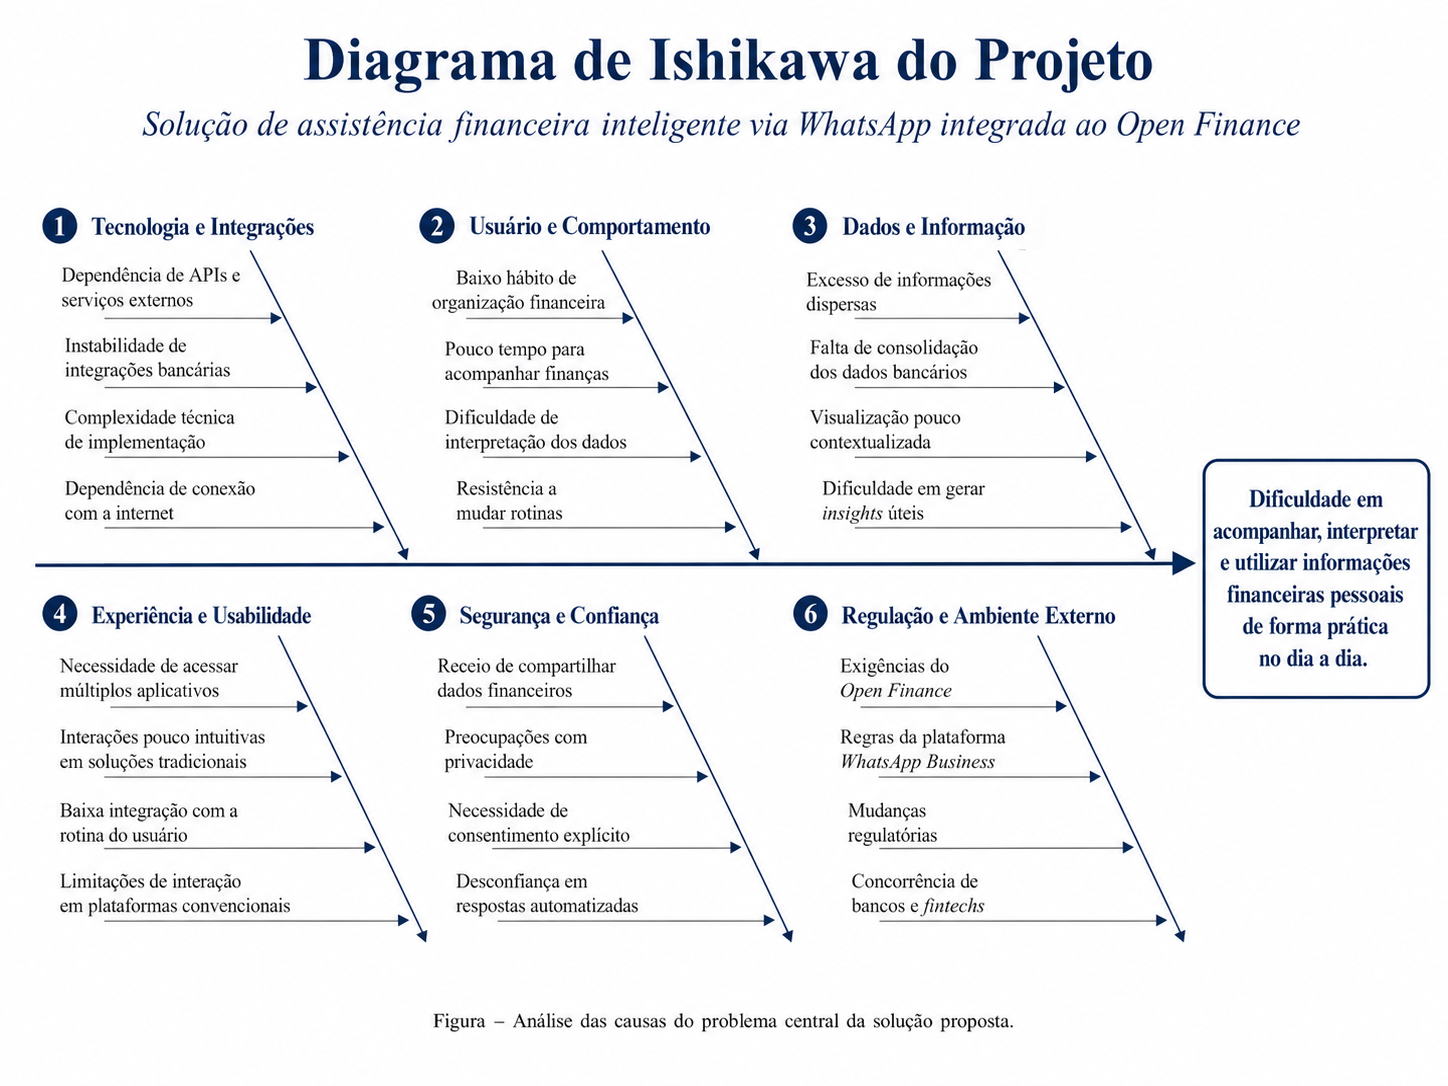
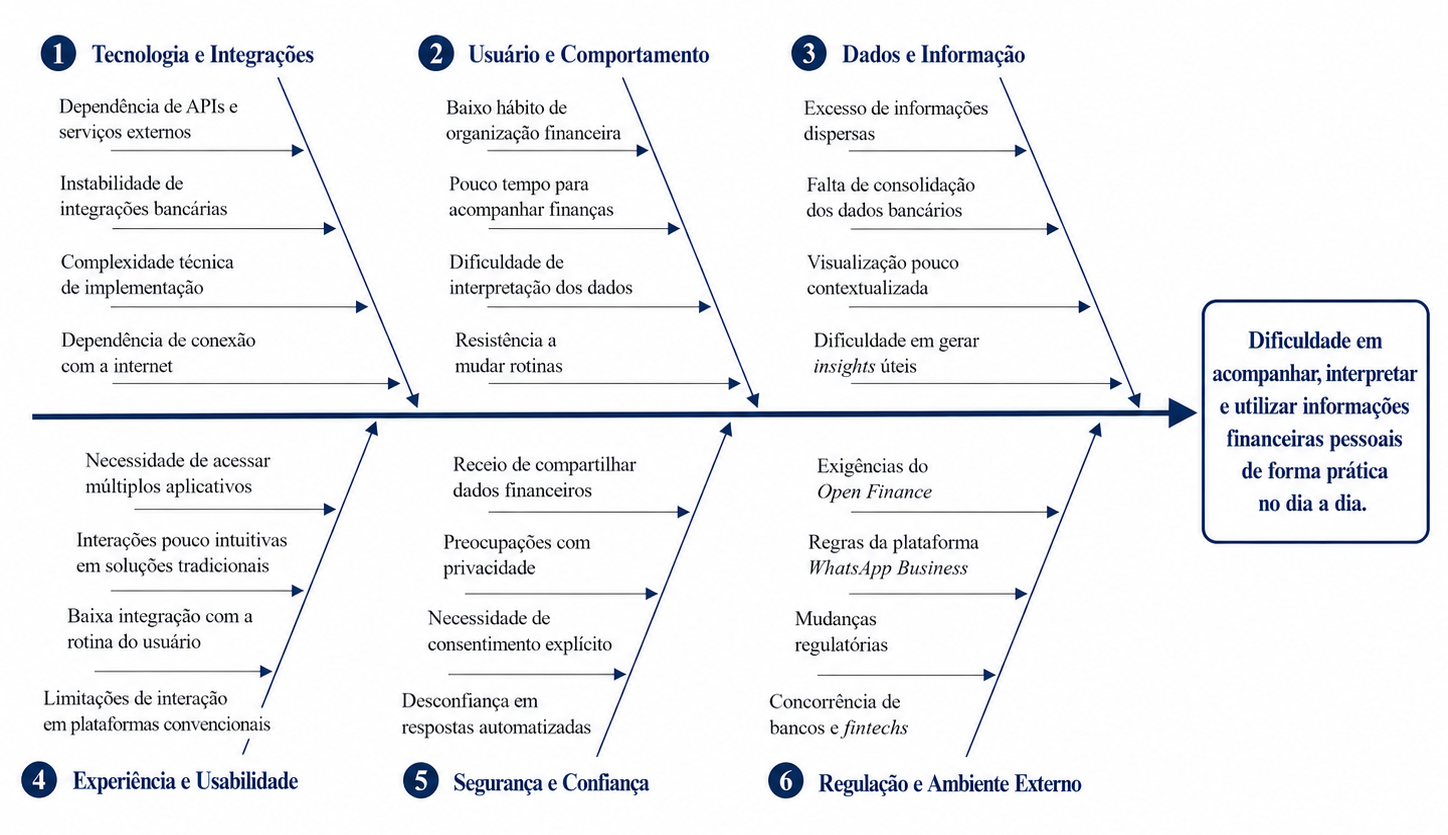
feat: systemic frontier

diff --git a/chapters/06_modelagem_sistema.tex b/chapters/06_modelagem_sistema.tex
@@ -1,88 +1,100 @@
 % =============================================
 % CAPÍTULO 6 - MODELAGEM DO SISTEMA
 % =============================================
-\chapter{MODELAGEM DO SISTEMA}
+    \chapter{MODELAGEM DO SISTEMA}
 
-Durante o desenvolvimento de \textit{software}, a modelagem do sistema é uma etapa importante, uma vez que permite estruturar os requisitos, identificar limitações e descrever as funcionalidades previstas para a solução. Assim, nesta seção, serão abordadas as restrições do sistema, os requisitos funcionais e não funcionais, bem como os diagramas de casos de uso e suas descrições correspondentes.
+    A modelagem do sistema representa uma etapa fundamental no processo de desenvolvimento de \textit{software}, pois permite estruturar os requisitos, identificar restrições e descrever com clareza as funcionalidades esperadas da solução. No contexto deste projeto — uma plataforma conversacional de inteligência financeira operada integralmente pelo WhatsApp, com integração ao \textit{Open Finance} e uso de inteligência artificial — essa etapa é especialmente relevante, dado que a solução envolve dados financeiros sensíveis, dependências de serviços externos e conformidade com a Lei Geral de Proteção de Dados (LGPD). Assim, neste capítulo são apresentadas as restrições do sistema, os requisitos funcionais e não funcionais, bem como os diagramas de casos de uso e suas respectivas descrições.
 
-\section{Lista de restrições}
+    \section{Fronteira sistêmica}
 
-No decorrer do processo de desenvolvimento, algumas limitações foram levantadas e organizadas no Quadro 5.
+    Na Figura \ref{fig:fronteira}, é ilustrada a fronteira sistêmica da solução, demonstrando visualmente a separação do ambiente interno da plataforma e as interações realizadas no seu entorno. O diagrama facilita o entendimento dos sistemas externos que se comunicam com a solução e dos componentes internos responsáveis por cada responsabilidade. Foi identificado que a aplicação interage com três grupos de serviços externos: a \textbf{WhatsApp Cloud API} (Meta), que atua como canal de entrada e saída das mensagens do usuário; a \textbf{Pluggy}, responsável pela integração com o ecossistema de \textit{Open Finance} regulado pelo Banco Central, viabilizando a sincronização de transações financeiras; e a \textbf{OpenAI}, utilizada para processamento de linguagem natural e geração de \textit{embeddings}. Internamente, a plataforma é organizada em camadas de entrada, domínio e dados, compostas por serviços como \textit{API Gateway}, \textit{Chat Service}, \textit{Finance Service}, \textit{Notification Service}, \textit{Outbound Worker} e \textit{Audit Service}, com persistência distribuída entre PostgreSQL, MongoDB, Redis e Kafka.
 
-{\small
-\begin{longtable}{|p{2.0cm}|p{3.6cm}|p{8.9cm}|}
-\caption{Lista de Restrições} \label{quad:restricoes} \\
-\hline
-\textbf{Fonte} & \textbf{Restrição} & \textbf{Lógica} \\ \hline
-\endfirsthead
-\hline
-\textbf{Fonte} & \textbf{Restrição} & \textbf{Lógica} \\ \hline
-\endhead
-\hline
-\multicolumn{3}{r}{\fontsize{10pt}{10pt}\selectfont\textit{Continua na próxima página}} \\
-\endfoot
-\hline
-\multicolumn{3}{c}{\fontsize{10pt}{10pt}\selectfont \textbf{Fonte:} Elaborado pelos autores (2026).} \\
-\endlastfoot
-Sistêmica & Integração com APIs do \textit{Open Finance} & O funcionamento da solução depende da integração com serviços e APIs do ecossistema de \textit{Open Finance}, responsáveis pelo acesso padronizado aos dados financeiros compartilhados pelo usuário. \\ \hline
-Sistêmica & Dependência da API do \textit{WhatsApp Business} & Como a solução será operada integralmente pelo WhatsApp, sua execução depende da disponibilidade e das regras da plataforma \textit{WhatsApp Business}. \\ \hline
-Sistêmica & Segurança de informações financeiras & Por lidar com dados bancários e financeiros sensíveis, o sistema deve adotar mecanismos de proteção, autenticação e controle de acesso para evitar usos indevidos e acessos não autorizados. \\ \hline
-Sistêmica & Consentimento do usuário & O acesso aos dados financeiros depende da autorização explícita do usuário, o que limita o funcionamento da solução aos casos em que houver consentimento válido. \\ \hline
-Sistêmica & Precisão das respostas automatizadas & Como o sistema utiliza inteligência artificial e interação conversacional, é necessário limitar respostas imprecisas ou genéricas, principalmente em contextos financeiros. \\ \hline
-Sistêmica & Limitações do canal conversacional & Por funcionar dentro do WhatsApp, a solução fica restrita ao formato e aos recursos permitidos pelo canal, o que reduz possibilidades visuais em comparação com plataformas \textit{web}. \\ \hline
-Sistêmica & Utilização de serviços terceirizados & A implementação do sistema pode depender de ferramentas externas para conexão ao \textit{Open Finance}, hospedagem, banco de dados, autenticação, integração e processamento de IA. \\ \hline
-Sistêmica & Conformidade com a LGPD & O sistema deve respeitar normas de privacidade e proteção de dados pessoais, exigindo cuidados específicos no tratamento, armazenamento e compartilhamento das informações. \\ \hline
-\textit{Hardware} & Hospedagem em nuvem & A solução depende de infraestrutura em nuvem para processamento, armazenamento e disponibilidade contínua, evitando a necessidade de infraestrutura física própria. \\ \hline
-\textit{Hardware} & Disponibilidade de conexão com a \textit{internet} & Tanto o usuário quanto os serviços integrados precisam de acesso à \textit{internet} para que a solução funcione corretamente. \\ \hline
-\textit{Hardware} & Compatibilidade com dispositivos móveis & Como o sistema será utilizado pelo WhatsApp, é necessário que o usuário possua um \textit{smartphone} compatível com o aplicativo e com acesso regular ao serviço. \\ \hline
-\end{longtable}
-}
+    \begin{figure}[H]
+        \centering
+        \caption{Fronteira sistêmica da plataforma}
+        \includegraphics[width=\textwidth]{images/fronteira.png}
+        \label{fig:fronteira}
+        \fontetabela{\textbf{Fonte:} Elaborado pelos autores (2026).}
+    \end{figure}
 
-\section{Requisitos e diagramas}
+    \section{Lista de restrições}
 
-Os requisitos e as formas de representação do sistema possuem papel relevante no desenvolvimento de \textit{software}, pois contribuem para a definição clara das necessidades que deverão ser atendidas pela solução proposta. De acordo com Washizaki, em ``\textit{Guide to the Software Engineering Body of Knowledge}'' (SWEBOK), a engenharia de requisitos integra uma das áreas de conhecimento fundamentais da engenharia de \textit{software}, sendo responsável por apoiar a identificação, documentação e comunicação das necessidades do sistema. Nesse contexto, o uso de modelos e diagramas auxilia na visualização dessas informações, facilita o entendimento entre os envolvidos no projeto e contribui para uma especificação mais organizada e consistente do \textit{software} a ser desenvolvido.
+    No decorrer do processo de desenvolvimento, foram identificadas restrições que influenciam diretamente o funcionamento e o escopo da solução. Por se tratar de uma plataforma que depende da integração com o ecossistema de \textit{Open Finance}, da disponibilidade da \textit{WhatsApp Business Platform} e do cumprimento das exigências da LGPD, as restrições possuem caráter tanto sistêmico quanto de infraestrutura. Essas limitações foram organizadas no Quadro \ref{quad:restricoes}.
 
-\subsection{Requisitos funcionais}
+    {\small
+    \begin{longtable}{|p{2.0cm}|p{3.6cm}|p{8.9cm}|}
+    \caption{Lista de Restrições} \label{quad:restricoes} \\
+    \hline
+    \textbf{Fonte} & \textbf{Restrição} & \textbf{Lógica} \\ \hline
+    \endfirsthead
+    \hline
+    \textbf{Fonte} & \textbf{Restrição} & \textbf{Lógica} \\ \hline
+    \endhead
+    \hline
+    \multicolumn{3}{r}{\fontsize{10pt}{10pt}\selectfont\textit{Continua na próxima página}} \\
+    \endfoot
+    \hline
+    \multicolumn{3}{c}{\fontsize{10pt}{10pt}\selectfont \textbf{Fonte:} Elaborado pelos autores (2026).} \\
+    \endlastfoot
+    Sistêmica & Integração com APIs do \textit{Open Finance} & O funcionamento da solução depende da integração com serviços e APIs do ecossistema de \textit{Open Finance}, responsáveis pelo acesso padronizado aos dados financeiros compartilhados pelo usuário. \\ \hline
+    Sistêmica & Dependência da API do \textit{WhatsApp Business} & Como a solução será operada integralmente pelo WhatsApp, sua execução depende da disponibilidade e das regras da plataforma \textit{WhatsApp Business}. \\ \hline
+    Sistêmica & Segurança de informações financeiras & Por lidar com dados bancários e financeiros sensíveis, o sistema deve adotar mecanismos de proteção, autenticação e controle de acesso para evitar usos indevidos e acessos não autorizados. \\ \hline
+    Sistêmica & Consentimento do usuário & O acesso aos dados financeiros depende da autorização explícita do usuário, o que limita o funcionamento da solução aos casos em que houver consentimento válido. \\ \hline
+    Sistêmica & Precisão das respostas automatizadas & Como o sistema utiliza inteligência artificial e interação conversacional, é necessário limitar respostas imprecisas ou genéricas, principalmente em contextos financeiros. \\ \hline
+    Sistêmica & Limitações do canal conversacional & Por funcionar dentro do WhatsApp, a solução fica restrita ao formato e aos recursos permitidos pelo canal, o que reduz possibilidades visuais em comparação com plataformas \textit{web}. \\ \hline
+    Sistêmica & Utilização de serviços terceirizados & A implementação do sistema pode depender de ferramentas externas para conexão ao \textit{Open Finance}, hospedagem, banco de dados, autenticação, integração e processamento de IA. \\ \hline
+    Sistêmica & Conformidade com a LGPD & O sistema deve respeitar normas de privacidade e proteção de dados pessoais, exigindo cuidados específicos no tratamento, armazenamento e compartilhamento das informações. \\ \hline
+    \textit{Hardware} & Hospedagem em nuvem & A solução depende de infraestrutura em nuvem para processamento, armazenamento e disponibilidade contínua, evitando a necessidade de infraestrutura física própria. \\ \hline
+    \textit{Hardware} & Disponibilidade de conexão com a \textit{internet} & Tanto o usuário quanto os serviços integrados precisam de acesso à \textit{internet} para que a solução funcione corretamente. \\ \hline
+    \textit{Hardware} & Compatibilidade com dispositivos móveis & Como o sistema será utilizado pelo WhatsApp, é necessário que o usuário possua um \textit{smartphone} compatível com o aplicativo e com acesso regular ao serviço. \\ \hline
+    \end{longtable}
+    }
 
-O Quadro 6 apresenta os requisitos funcionais do projeto, isto é, as funcionalidades e ações que o sistema deverá executar para atender às necessidades identificadas durante a etapa de levantamento de requisitos. Esses requisitos descrevem os comportamentos esperados da solução e servem como base para orientar o desenvolvimento das principais operações do sistema.
+    \section{Requisitos e diagramas}
 
-\begin{longtable}{|p{1.5cm}|p{3.2cm}|p{7.3cm}|p{2.1cm}|}
-\caption{Requisitos Funcionais} \label{quad:rf} \\
-\hline
-\textbf{Código} & \textbf{Requisito} & \textbf{Descrição} & \textbf{Prioridade} \\ \hline
-\endfirsthead
-\hline
-\textbf{Código} & \textbf{Requisito} & \textbf{Descrição} & \textbf{Prioridade} \\ \hline
-\endhead
-\hline
-\multicolumn{4}{r}{\fontsize{10pt}{10pt}\selectfont\textit{Continua na próxima página}} \\
-\endfoot
-\hline
-\multicolumn{4}{c}{\fontsize{10pt}{10pt}\selectfont \textbf{Fonte:} Elaborado pelos autores (2026).} \\
-\endlastfoot
-{[RF001]} & Realizar cadastro & O usuário deve ser capaz de iniciar seu cadastro na solução por meio do WhatsApp, fornecendo as informações necessárias para criação de sua conta. & Obrigatório \\ \hline
-{[RF002]} & Realizar autenticação & O usuário deve ser capaz de se autenticar de forma segura para acessar suas informações financeiras e utilizar os recursos da solução. & Obrigatório \\ \hline
-{[RF003]} & Vincular conta ao \textit{Open Finance} & O usuário deve ser capaz de autorizar e vincular suas contas bancárias por meio do \textit{Open Finance}, permitindo o compartilhamento de dados financeiros com a solução. & Obrigatório \\ \hline
-{[RF004]} & Consultar informações financeiras & O usuário deve ser capaz de consultar, por meio da conversa no WhatsApp, informações como saldo, transações, histórico financeiro e movimentações recentes. & Obrigatório \\ \hline
-{[RF005]} & Receber respostas em linguagem natural & O sistema deve ser capaz de responder às perguntas do usuário em linguagem natural, utilizando uma interface conversacional no WhatsApp. & Obrigatório \\ \hline
-{[RF006]} & Gerar análises financeiras & O sistema deve ser capaz de analisar os dados financeiros do usuário e apresentar interpretações sobre gastos, receitas e comportamento financeiro. & Obrigatório \\ \hline
-{[RF007]} & Gerar previsões financeiras & O sistema deve ser capaz de produzir previsões com base no histórico financeiro do usuário, indicando possíveis cenários futuros relacionados a gastos e saldo. & Obrigatório \\ \hline
-{[RF008]} & Emitir alertas financeiros & O sistema deve ser capaz de enviar alertas ao usuário sobre situações relevantes, como vencimentos, gastos acima do padrão ou risco de saldo insuficiente. & Obrigatório \\ \hline
-{[RF009]} & Fornecer recomendações personalizadas & O sistema deve ser capaz de gerar orientações e recomendações financeiras personalizadas com base no perfil e no histórico do usuário. & Obrigatório \\ \hline
-{[RF010]} & Definir metas financeiras & O usuário deve ser capaz de cadastrar metas financeiras, como economizar determinado valor ou controlar gastos em categorias específicas. & Desejável \\ \hline
-{[RF011]} & Acompanhar metas financeiras & O usuário deve ser capaz de consultar o andamento de suas metas financeiras por meio da conversa no WhatsApp. & Desejável \\ \hline
-{[RF012]} & Classificar transações & O sistema deve ser capaz de identificar e classificar automaticamente transações financeiras em categorias, como alimentação, transporte, lazer e contas fixas. & Obrigatório \\ \hline
-{[RF013]} & Consultar resumo financeiro & O usuário deve ser capaz de solicitar resumos financeiros periódicos, contendo uma visão consolidada de receitas, despesas e saldo. & Obrigatório \\ \hline
-{[RF014]} & Gerenciar consentimento & O usuário deve ser capaz de conceder, visualizar e revogar o consentimento de acesso aos seus dados financeiros compartilhados. & Obrigatório \\ \hline
-{[RF015]} & Gerenciar perfil & O usuário deve ser capaz de visualizar e atualizar suas informações cadastrais e preferências de uso da solução. & Desejável \\ \hline
-{[RF016]} & Registrar histórico de interações & O sistema deve ser capaz de armazenar o histórico das interações realizadas pelo usuário no assistente conversacional. & Obrigatório \\ \hline
-{[RF017]} & Encerrar vinculação bancária & O usuário deve ser capaz de desvincular suas contas bancárias da solução quando desejar. & Obrigatório \\ \hline
-{[RF018]} & Disponibilizar painel administrativo & O sistema deve fornecer uma área administrativa para acompanhamento técnico e gerenciamento geral da solução. & Desejável \\ \hline
+    A definição dos requisitos é uma das etapas centrais do desenvolvimento de \textit{software}, pois estabelece com precisão o que a solução deve ser capaz de realizar e sob quais condições deve operar. De acordo com Washizaki, em ``\textit{Guide to the Software Engineering Body of Knowledge}'' (SWEBOK), a engenharia de requisitos integra uma das áreas de conhecimento fundamentais da engenharia de \textit{software}, sendo responsável por apoiar a identificação, documentação e comunicação das necessidades do sistema. Complementarmente, o uso de diagramas de casos de uso auxilia na representação visual das interações entre os usuários e o sistema, facilitando a compreensão do escopo e a comunicação entre os envolvidos no projeto.
+
+    \subsection{Requisitos funcionais}
+
+    O Quadro \ref{quad:rf} apresenta os requisitos funcionais do projeto, isto é, as funcionalidades e comportamentos que o sistema deverá oferecer para atender às necessidades dos usuários. Esses requisitos abrangem desde o cadastro e a autenticação até a consulta de informações financeiras, a geração de análises e previsões, o envio de alertas e o gerenciamento de consentimentos, refletindo os principais fluxos de interação previstos para a solução.
+
+    \begin{longtable}{|p{1.5cm}|p{3.2cm}|p{7.3cm}|p{2.1cm}|}
+    \caption{Requisitos Funcionais} \label{quad:rf} \\
+    \hline
+    \textbf{Código} & \textbf{Requisito} & \textbf{Descrição} & \textbf{Prioridade} \\ \hline
+    \endfirsthead
+    \hline
+    \textbf{Código} & \textbf{Requisito} & \textbf{Descrição} & \textbf{Prioridade} \\ \hline
+    \endhead
+    \hline
+    \multicolumn{4}{r}{\fontsize{10pt}{10pt}\selectfont\textit{Continua na próxima página}} \\
+    \endfoot
+    \hline
+    \multicolumn{4}{c}{\fontsize{10pt}{10pt}\selectfont \textbf{Fonte:} Elaborado pelos autores (2026).} \\
+    \endlastfoot
+    {[RF001]} & Realizar cadastro & O usuário deve ser capaz de iniciar seu cadastro na solução por meio do WhatsApp, fornecendo as informações necessárias para criação de sua conta. & Obrigatório \\ \hline
+    {[RF002]} & Realizar autenticação & O usuário deve ser capaz de se autenticar de forma segura para acessar suas informações financeiras e utilizar os recursos da solução. & Obrigatório \\ \hline
+    {[RF003]} & Vincular conta ao \textit{Open Finance} & O usuário deve ser capaz de autorizar e vincular suas contas bancárias por meio do \textit{Open Finance}, permitindo o compartilhamento de dados financeiros com a solução. & Obrigatório \\ \hline
+    {[RF004]} & Consultar informações financeiras & O usuário deve ser capaz de consultar, por meio da conversa no WhatsApp, informações como saldo, transações, histórico financeiro e movimentações recentes. & Obrigatório \\ \hline
+    {[RF005]} & Receber respostas em linguagem natural & O sistema deve ser capaz de responder às perguntas do usuário em linguagem natural, utilizando uma interface conversacional no WhatsApp. & Obrigatório \\ \hline
+    {[RF006]} & Gerar análises financeiras & O sistema deve ser capaz de analisar os dados financeiros do usuário e apresentar interpretações sobre gastos, receitas e comportamento financeiro. & Obrigatório \\ \hline
+    {[RF007]} & Gerar previsões financeiras & O sistema deve ser capaz de produzir previsões com base no histórico financeiro do usuário, indicando possíveis cenários futuros relacionados a gastos e saldo. & Obrigatório \\ \hline
+    {[RF008]} & Emitir alertas financeiros & O sistema deve ser capaz de enviar alertas ao usuário sobre situações relevantes, como vencimentos, gastos acima do padrão ou risco de saldo insuficiente. & Obrigatório \\ \hline
+    {[RF009]} & Fornecer recomendações personalizadas & O sistema deve ser capaz de gerar orientações e recomendações financeiras personalizadas com base no perfil e no histórico do usuário. & Obrigatório \\ \hline
+    {[RF010]} & Definir metas financeiras & O usuário deve ser capaz de cadastrar metas financeiras, como economizar determinado valor ou controlar gastos em categorias específicas. & Desejável \\ \hline
+    {[RF011]} & Acompanhar metas financeiras & O usuário deve ser capaz de consultar o andamento de suas metas financeiras por meio da conversa no WhatsApp. & Desejável \\ \hline
+    {[RF012]} & Classificar transações & O sistema deve ser capaz de identificar e classificar automaticamente transações financeiras em categorias, como alimentação, transporte, lazer e contas fixas. & Obrigatório \\ \hline
+    {[RF013]} & Consultar resumo financeiro & O usuário deve ser capaz de solicitar resumos financeiros periódicos, contendo uma visão consolidada de receitas, despesas e saldo. & Obrigatório \\ \hline
+    {[RF014]} & Gerenciar consentimento & O usuário deve ser capaz de conceder, visualizar e revogar o consentimento de acesso aos seus dados financeiros compartilhados. & Obrigatório \\ \hline
+    {[RF015]} & Gerenciar perfil & O usuário deve ser capaz de visualizar e atualizar suas informações cadastrais e preferências de uso da solução. & Desejável \\ \hline
+    {[RF016]} & Registrar histórico de interações & O sistema deve ser capaz de armazenar o histórico das interações realizadas pelo usuário no assistente conversacional. & Obrigatório \\ \hline
+    {[RF017]} & Encerrar vinculação bancária & O usuário deve ser capaz de desvincular suas contas bancárias da solução quando desejar. & Obrigatório \\ \hline
+    {[RF018]} & Disponibilizar painel administrativo & O sistema deve fornecer uma área administrativa para acompanhamento técnico e gerenciamento geral da solução. & Desejável \\ \hline
 \end{longtable}
 
 \subsection{Requisitos não funcionais e de qualidade}
 
-Para além das funcionalidades do sistema, é necessário considerar requisitos não funcionais e de qualidade, que estabelecem critérios relacionados ao seu comportamento operacional e aos padrões esperados de uso, como segurança, desempenho e usabilidade. O detalhamento desses requisitos é apresentado no Quadro 7.
+Além dos requisitos funcionais, a solu\u00e7\u00e3o deve atender a requisitos n\u00e3o funcionais e de qualidade que assegurem seu funcionamento adequado em um contexto de alta sensibilidade de dados. Dado que a plataforma lida com informa\u00e7\u00f5es financeiras e pessoais de usu\u00e1rios, aspectos como seguran\u00e7a, privacidade, confiabilidade e desempenho s\u00e3o tratados como prioridades estruturais. O detalhamento desses requisitos \u00e9 apresentado no Quadro \ref{quad:rnf}.
 
 \begin{longtable}{|p{1.8cm}|p{3.2cm}|p{7.0cm}|p{2.1cm}|}
 \caption{Requisitos Não Funcionais e de Qualidade} \label{quad:rnf} \\

diff --git a/chapters/07_modelagem_banco_dados.tex b/chapters/07_modelagem_banco_dados.tex
@@ -9,14 +9,14 @@ A plataforma adota uma estratégia de persistência poliglota, utilizando dois b
 
 \section{Diagrama entidade relacionamento}
 
-Na Figura \ref{fig:der_postgres} é apresentado o Diagrama de Entidade Relacionamento do banco de dados relacional (PostgreSQL), com seus principais atributos e seus respectivos relacionamentos, com identificação de entidades fortes e fracas.
+Na Figura \ref{fig:der_postgres} é apresentado o Diagrama de Entidade Relacionamento do banco de dados relacional, com seus principais atributos e seus respectivos relacionamentos, com identificação de entidades fortes e fracas.
 
 \begin{figure}[H]
     \centering
-    \caption{DER do sistema — PostgreSQL}
+    \caption{DER do sistema}
     \includegraphics[width=\textwidth]{images/der_postgres.png}
     \label{fig:der_postgres}
-    \fonte{Elaborado pelos autores (2026).}
+    \fontetabela{\textbf{Fonte:} Elaborado pelos autores (2026).}
 \end{figure}
 
 \section{Modelo entidade relacionamento}
@@ -30,7 +30,7 @@ Na Figura \ref{fig:mer_postgres} é apresentado o modelo de entidade relacioname
     \caption{MER do sistema — PostgreSQL}
     \includegraphics[width=\textwidth]{images/mer_postgres.png}
     \label{fig:mer_postgres}
-    \fonte{Elaborado pelos autores (2026).}
+    \fontetabela{\textbf{Fonte:} Elaborado pelos autores (2026).}
 \end{figure}
 
 \section{Modelo de dados orientado a documentos}
@@ -44,7 +44,7 @@ Na Figura \ref{fig:mongo} é apresentado o modelo de dados orientado a documento
     \caption{Modelo de dados — MongoDB}
     \includegraphics[width=\textwidth]{images/mongo.png}
     \label{fig:mongo}
-    \fonte{Elaborado pelos autores (2026).}
+    \fontetabela{\textbf{Fonte:} Elaborado pelos autores (2026).}
 \end{figure}
 
 O banco de dados MongoDB é organizado em duas coleções principais, descritas a seguir.
